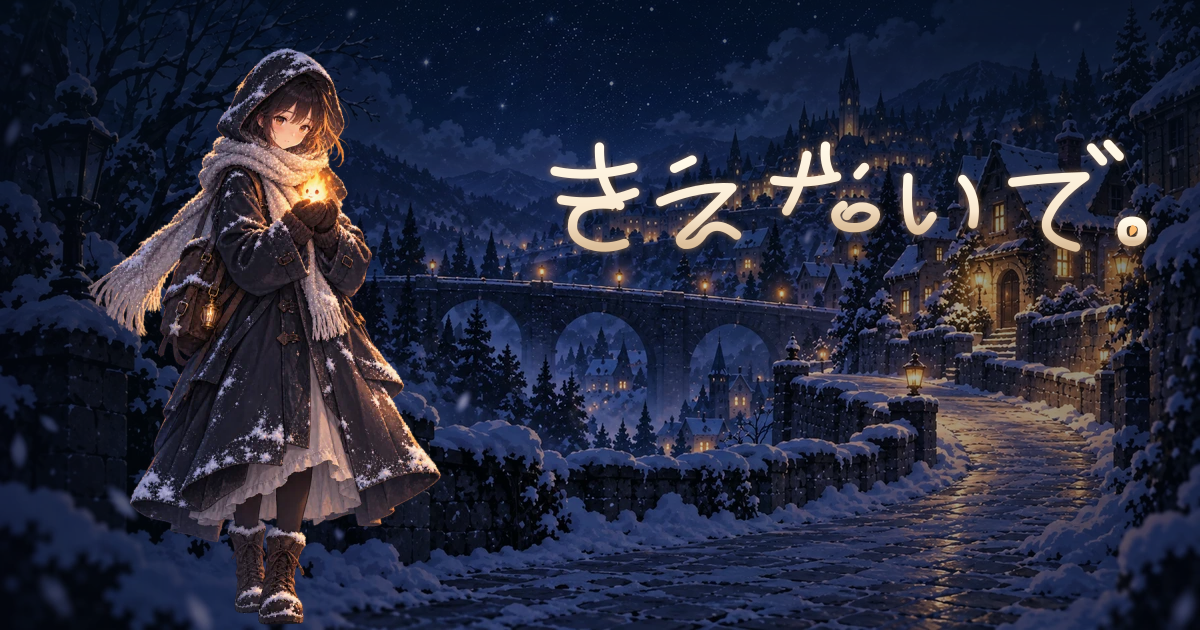
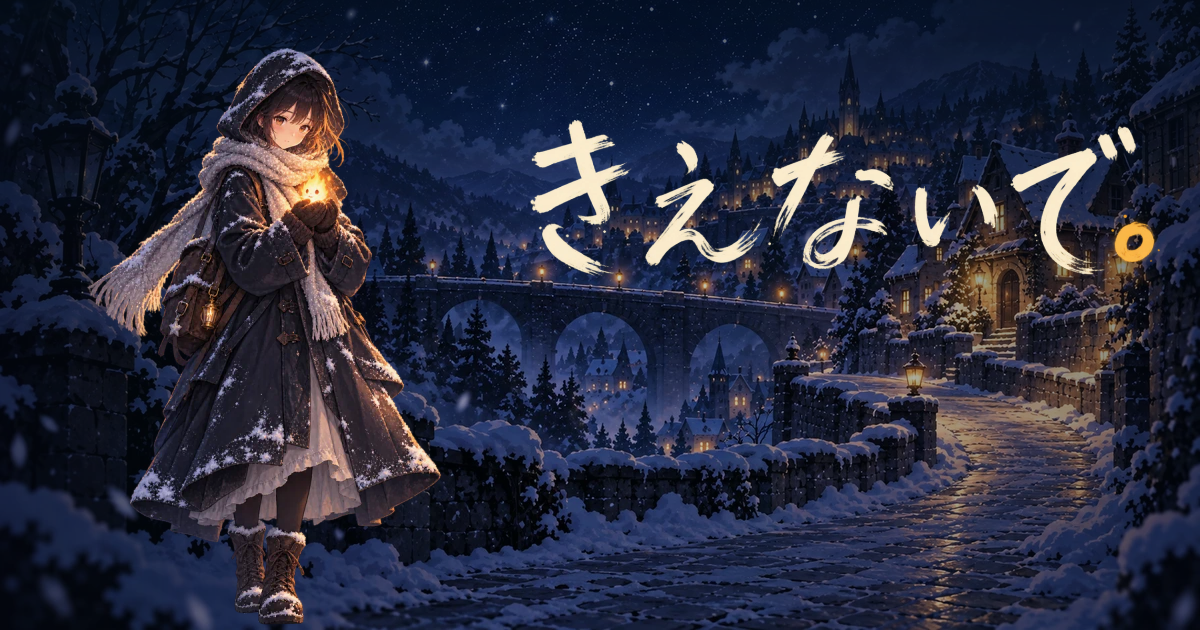
Redesign Kienaide title with painted brush lettering

Changed region(s): [[0.4317, 0.181, 0.9867, 0.4524]]

diff --git a/assets/style.css b/assets/style.css
@@ -380,8 +380,8 @@ body[data-game=kienaide] .result-more summary::after{content:'＋';color:#e6c389
 body[data-game=kienaide] .result-more[open] summary::after{content:'−'}
 body[data-game=kienaide] .result-more .share-btn,body[data-game=kienaide] .result-more .related{display:block;width:100%;min-height:44px;margin:8px 0 0;text-align:center}
 
-/* 004 has its own hand-drawn wordmark; keep the real heading text for accessibility. */
-.kienaide-lettering{display:block;color:transparent!important;text-shadow:none!important;font-size:0!important;line-height:0!important;overflow:hidden;background:url('./kienaide-lettering.svg') center/contain no-repeat;width:min(100%,520px);height:clamp(64px,18vw,108px);margin-inline:auto!important;white-space:nowrap}
+/* 004 has its own brush-painted wordmark; keep the real heading text for accessibility. */
+.kienaide-lettering{display:block;color:transparent!important;text-shadow:none!important;font-size:0!important;line-height:0!important;overflow:hidden;background:url('./kienaide-lettering.webp') center/contain no-repeat;width:min(100%,520px);height:clamp(64px,18vw,108px);margin-inline:auto!important;white-space:nowrap}
 body[data-game=kienaide] .game-heading .kienaide-lettering{height:52px;width:230px;margin-block:3px 1px}
 body.kienaide-playing[data-game=kienaide] .game-heading .kienaide-lettering{height:34px;width:160px}
 body.kienaide-title-screen #curtain-title.kienaide-lettering{height:clamp(75px,23vw,120px);width:min(100%,430px);margin:8px auto 5px}
@@ -389,7 +389,7 @@ body.kienaide-title-screen #curtain-title.kienaide-lettering{height:clamp(75px,2
 .kienaide-home-art{position:relative;display:flex;flex-direction:column;justify-content:space-between;min-height:min(730px,calc(100svh - 130px));overflow:hidden;border:1px solid #856c66;border-radius:24px;background:linear-gradient(180deg,#07101dc9 0%,#07101d05 35%,#07101d16 61%,#07101de6 100%),url('./kienaide-v3/snow-town.webp') center 53%/cover no-repeat;box-shadow:0 25px 70px #02050c99}
 .kienaide-home-copy{text-align:center;padding:clamp(44px,9vh,84px) 20px 0;text-shadow:0 2px 18px #040b18}
 .kienaide-home-kicker{font-size:11px;letter-spacing:.24em;font-weight:700;color:#f7d6a7}
-.kienaide-home-copy .kienaide-lettering{margin-block:12px 0!important}
+.kienaide-home-copy .kienaide-lettering{width:min(85%,440px);margin-block:12px 0!important}
 .kienaide-home-copy p{margin:0;font-size:clamp(14px,3.4vw,17px);letter-spacing:.13em;color:#fff0d7}
 .kienaide-home-bottom{display:flex;align-items:end;justify-content:space-between;gap:20px;padding:20px clamp(20px,5vw,50px) clamp(24px,5vw,42px)}
 .kienaide-home-bottom>span{font-size:13px;color:#e7decd;text-shadow:0 2px 9px #030814}

diff --git a/assets/app.js b/assets/app.js
@@ -190,7 +190,7 @@ if(candle){
 }
 let momentCard=null;
 if(candle){
- const wordmark=new Image();wordmark.src=base+'assets/kienaide-lettering.svg';
+ const wordmark=new Image();wordmark.src=base+'assets/kienaide-lettering.webp';
  const save=$('moment-save'),status=document.createElement('p');status.id='moment-status';status.className='moment-status';status.setAttribute('role','status');status.setAttribute('aria-live','polite');status.hidden=true;save.after(status);
  if(typeof window.KienaideCard?.create==='function'){
  momentCard=window.KienaideCard.create({change:({state:phase,message,ready})=>{save.dataset.state=phase;save.disabled=phase==='idle'||phase==='preparing'||phase==='saving';save.setAttribute('aria-busy',String(phase==='preparing'||phase==='saving'));save.textContent=phase==='preparing'?'カードを準備中…':phase==='saving'?'共有・保存中…':phase==='error'?(ready?'もう一度、保存・共有':'カード作成を再試行'):'結末カードを保存・共有 ↗';status.hidden=!message;status.innerHTML=guidanceMarkup(message);if(phase==='ready'&&!message)mark('moment_card_created',{ending_id:lastEnding,rescue:!!state.rescue})},make:()=>{

diff --git a/docs/KIENAIDE-DESIGN.md b/docs/KIENAIDE-DESIGN.md
@@ -1,6 +1,6 @@
 # 004「きえないで。」現行設計
 
-最終照合: 2026-10-22。プレイヤー向けの振る舞いは [仕様書](./KIENAIDE-SPEC.md) を正本とする。本書は変更箇所とテストを判断するための責務・データ・不変条件を記す。
+最終照合: 2026-10-23。プレイヤー向けの振る舞いは [仕様書](./KIENAIDE-SPEC.md) を正本とする。本書は変更箇所とテストを判断するための責務・データ・不変条件を記す。
 
 ## 構成と依存方向
 
@@ -13,7 +13,7 @@
 | 結末PNGの準備、共有・ダウンロード、失敗と周回競合 | `assets/kienaide-card.js` | `tests/kienaide-card.test.mjs`、`scripts/qa-kienaide-card.mjs` |
 | 絵画原本とruntime WebP | `assets/kienaide/paint/src/`、`assets/kienaide/paint/manifest.json`、`scripts/art/kienaide-paint.mjs` | 画像デコード、ノイズ比較、四章・五結末キャプチャ |
 | 静的サイトの組立と配信 | `scripts/build.mjs`、`.github/workflows/pages.yml` | `npm run verify`、公開URL |
-| 004専用の入口と題字 | `assets/app.js`、`assets/style.css`、`assets/kienaide-lettering.svg` | ルートとタイトル画面のモバイル表示、他作品の直通URL維持 |
+| 004専用の入口と題字 | `assets/app.js`、`assets/style.css`、`assets/kienaide-lettering.webp`、`assets/kienaide/paint/src/title-brush-master.png` | ルートとタイトル画面のモバイル表示、他作品の直通URL維持、共有画像との題字一致 |
 | 共有サムネイル | `assets/kienaide-thumbnail-bg.webp`、`scripts/art/kienaide-thumbnail.mjs`、`assets/kienaide-thumbnail.png` | 1200×630、題字の判読性、少女と炎の位置、入口と004のOG画像一致 |
 | 任意の初見調査 | `assets/experiment.js`、`assets/style.css` の004限定回答領域 | `scripts/qa-research.mjs`、360×640／390×844の回答スクリーンショット |
 

diff --git a/design-qa.md b/design-qa.md
@@ -1,0 +1,25 @@
+# 「きえないで。」題字のデザイン確認
+
+final result: passed
+
+## 比較対象
+
+- 選択された2案（筆跡と橙色の句点）と、実装後のホーム画面を390×844で並べて確認した。比較画像は `artifacts/title-design-qa-comparison.png`。
+- 実装後のホーム・ゲーム開始画面をChromiumとWebKitの390×844、360×640で確認した。画像は `artifacts/title-{chromium,webkit}-{home,game}-{390x844,360x640}.png`。
+
+## Findings
+
+- P0〜P2の未解決事項なし。最初の比較でホームの題字が2案より大きかったため、題字の幅だけ縮めて再撮影した。
+- 生成モックの街並みやボタン位置には元画面との差がある。今回の選択対象は題字なので、実装では既存の背景・配置・操作を維持した。
+
+## 確認内容
+
+- 文字：白いかすれた筆跡と橙色の句点を再現し、「きえないで。」の表示文字はHTMLに残した。小さい画面でも欠け・折り返しなし。
+- 余白：ホームでは題字と英語の見出し・副題の間隔を確認。ゲーム開始画面では右上のリンク、説明文、人物と重ならない。
+- 色：夜空の寒色に対して暖色の題字が読める。句点は街灯とは別の小さな焦点として見える。
+- 画像：透過WebPは背景の白い縁や矩形を残さず、共有サムネイルにも同じ原本から反映した。
+- 文言と操作：ホームからゲームへ進む導線、ゲーム開始、結末経路に変更なし。
+
+## 残る確認
+
+- 実機のiPhone Safariでの表示と、人による好み・読みやすさ評価は未実施。

diff --git a/docs/KIENAIDE-SPEC.md b/docs/KIENAIDE-SPEC.md
@@ -6,7 +6,7 @@
 
 縦持ちスマホで、消えかけた炎の精を雪の町の家まで運ぶ短編ゲーム。狙う感情は「守りたい」という緊張、手を離す怖さ、帰還時の安堵・喪失。感情が実際に生じるかは人によるプレイテストで評価する。20作品のうち004だけを完成縦切りとして扱い、他19作品の仕様は本書の対象外。
 
-サイトの入口は当面「きえないで。」一作品だけを見せる。残る19作品のデータ・保存・個別URLは削除せず、ホームの作品一覧と004の結末からの他作品導線だけを非表示にする。入口とタイトル画面の題字は同じ手描きSVGを使い、文字情報はHTML見出しにも残す。本文・操作・結末名は可読性を優先した通常文字とする。
+サイトの入口は当面「きえないで。」一作品だけを見せる。残る19作品のデータ・保存・個別URLは削除せず、ホームの作品一覧と004の結末からの他作品導線だけを非表示にする。入口とタイトル画面の題字は同じ筆跡の透過WebPを使い、文字情報はHTML見出しにも残す。本文・操作・結末名は可読性を優先した通常文字とする。
 
 共有サムネイルは1200×630の一枚絵とし、既存の少女・専用題字を雪の町の背景に重ねる。サイト入口と004の両方のOG画像に用い、生成画像内の人物や生成文字には依存しない。小さなプレビューでも炎と題字が判別できることを受入条件とする。
 
